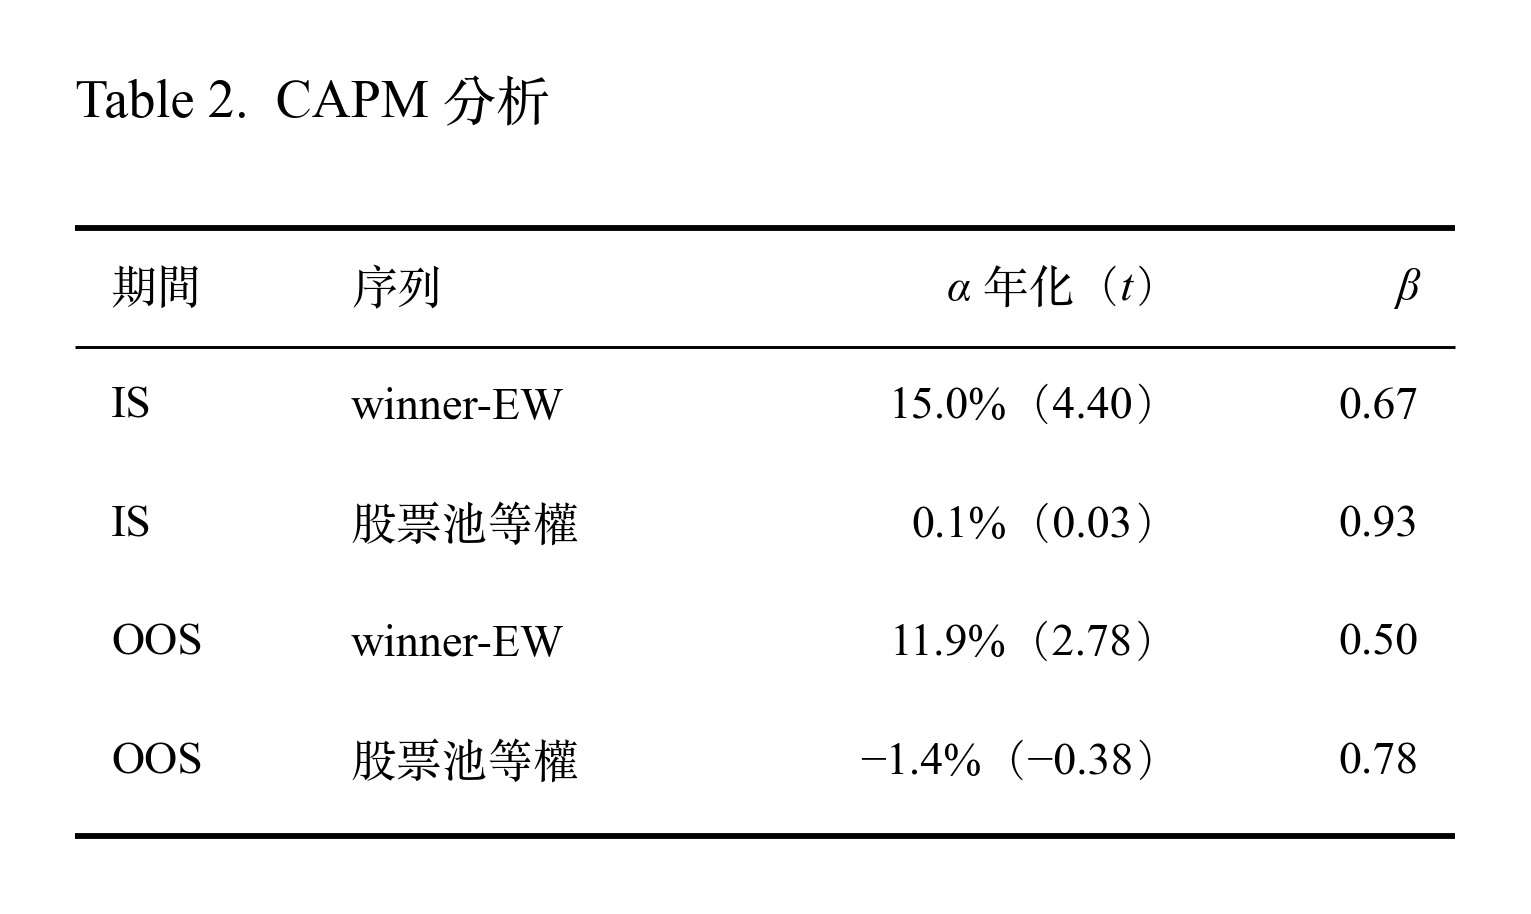
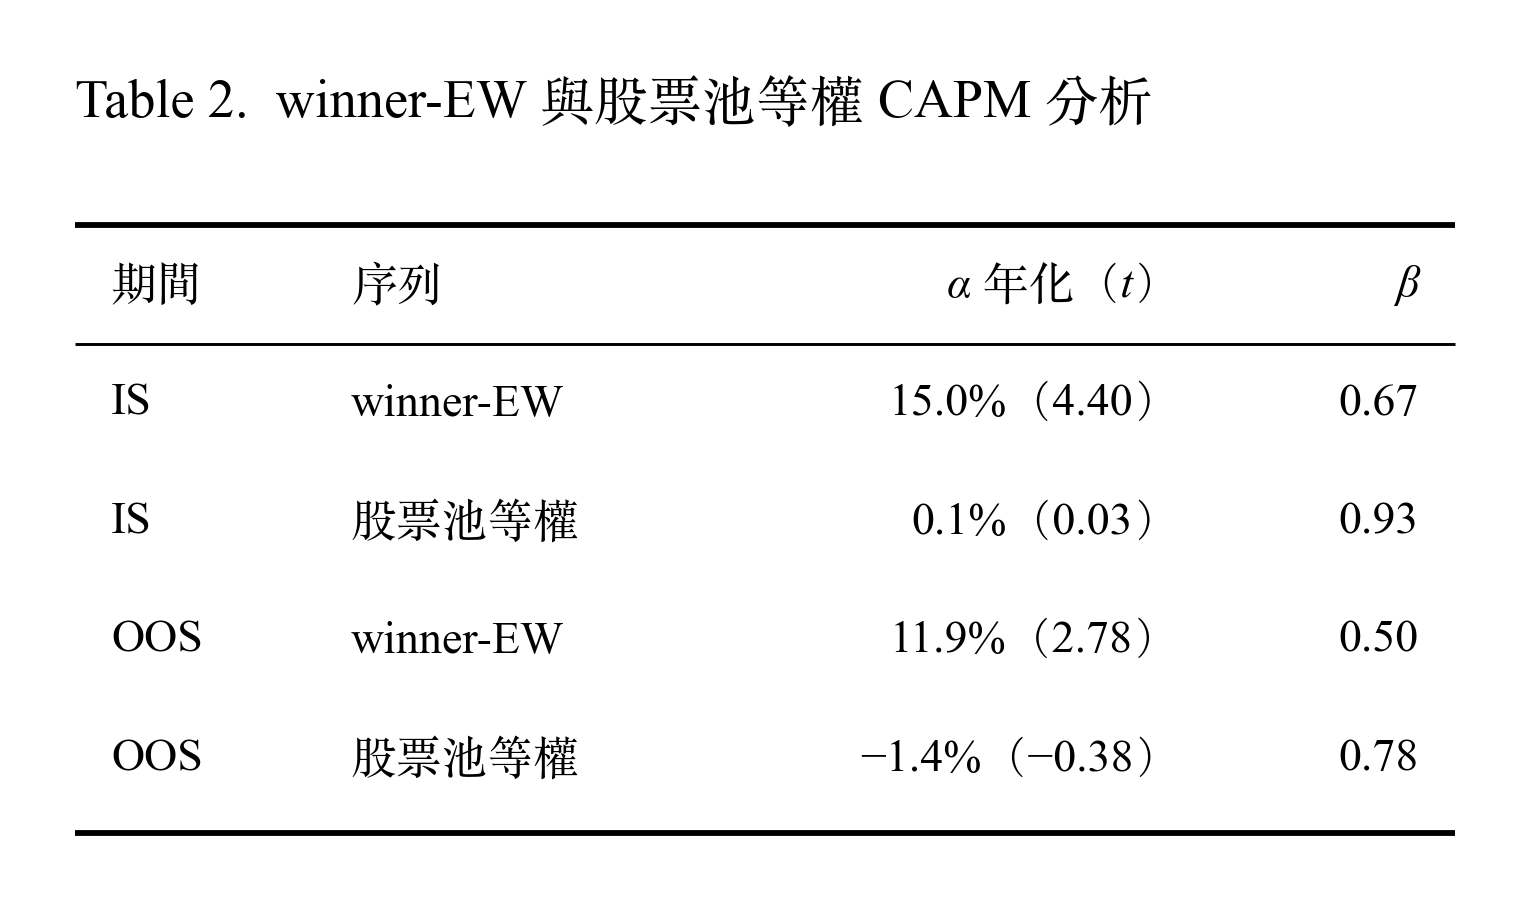
t

diff --git a/tw-5-factor-lab/03_Backtesting.md b/tw-5-factor-lab/03_Backtesting.md
@@ -53,7 +53,9 @@
 > TRTEJ：TEJ 編製的台股大盤報酬指數（含權息、不扣交易成本），作為大盤比較基準。
 >
 > CAGR ＝ 依每日淨值複利、以日曆年年化。
+>
 > Sharpe ＝ 日報酬平均 ÷ 日報酬標準差 × √252；無風險利率設為 0。
+>
 > 年化波動 ＝ 日報酬標準差 × √252。
 
 #### 解讀
@@ -74,7 +76,7 @@
 - 2018 到 2024 年中，策略的績效大致領先，資金累積速度高於股票池等權與 TRTEJ。
 - 2024 年中以後，策略績效大致持平。除了 v0-EW 持續上升到期末約 5.2 創新高。
 - 2025 年中以後，TRTEJ 則大幅上升，從約 2.4 上漲到期末約 5.4，並在 2026 年超過 v0-EW。
-- 策略相對大盤的優勢在最後兩年明顯縮小，歸因分析見 [5.1 滾動多因子回歸](#51-winner-ew-三年窗口滾動多因子回歸)。
+- 策略相對大盤的優勢在最後兩年明顯縮小，歸因分析見 [5.1 三年窗口滾動多因子回歸](#51-三年窗口滾動多因子回歸)。
 
 <p align="center">
   <img src="img/oos_drawdown.png" alt="Figure 2. OOS 回撤" width="1000">
@@ -113,7 +115,7 @@
 - 所有的統計值 t 值絕對值皆小於 2，不顯著有差異。
 - IS 中三段的差異都接近 0，股票池並不顯著落後大盤（−0.09%）；OOS 中每期平均則有大幅的落後（−1.50%），而落後合計主要來自加權方式（−1.88%）。
 - OOS 中，市值加權跟 TRTEJ 的範圍差異為 +0.38%，表示股票範圍（只選市值前 50%、排除金融股）的篩選條件，對於落後大盤的影響很小。沒有數據顯示市值加權股票池比大盤差。
-- 每檔股票等權持有，讓小型股的權重比依市值分配高，推論：OOS 期間大型股表現較好，大盤受到大型權值股推升。進一步分析請看 [4.3 winner-EW 多因子回歸](#43-winner-ew-多因子回歸) E1 小型股風險報酬。
+- 每檔股票等權持有，讓小型股的權重比依市值分配高，推論：OOS 期間大型股表現較好，大盤受到大型權值股推升。進一步分析請看 [4.3 多因子回歸](#43-多因子回歸) 中 E1 小型股的報酬貢獻。
 
 ---
 
@@ -125,23 +127,22 @@
   - β：大盤漲跌 1%，序列平均跟著漲跌 β%
 
 <p align="center">
-  <img src="img/table_capm.png" alt="Table 2. CAPM 分析" width="510">
+  <img src="img/table_capm.png" alt="Table 2. winner-EW 與股票池等權 CAPM 分析" width="510">
 </p>
 
-> 年化 α = 日 α × 252。
-> 範例：OOS 中 winner-EW 的 α = (9.1 bps × 252) − 0.5 × (8.7 bps × 252) ≈ 11.97%
+> 年化 α ＝ 日 α × 252。
+>
+> 範例：OOS 中 winner-EW 的 α = (9.1 bps × 252) − 0.5 × (8.7 bps × 252) ≈ 11.9%
 
 #### 解讀
-
-- 股票池等權在 IS、OOS 都接近 0。所以策略 α 來自選股，不是股票池本身。
-- 原始報酬持平，風險調整過後為正。OOS 當中 winner-EW 策略優勢（每期策略 − 每期大盤）+0.46% 不顯著；但是 CAPM α 年化 11.9%（t 2.78）。策略承擔一半的市場風險，照理說應只拿到大盤一半的報酬，實際卻拿到 22.9%。
-  - 風險調整：原先直接用（策略 − 大盤）等於假設 β = 1，假設策略承擔的市場風險跟大盤一樣多。
-  - 但實際回歸後 β = 0.5，在 OOS 強勢多頭中，承擔一半的風險卻取得相近的報酬。
-- α 從 IS 到 OOS 變小。可以看到 EW 策略的 α 從原本的約 15% 降到 8.7%–11.9%。從另外一個角度說明了選股優勢降低。
-- β 從 IS 到 OOS 變小。可以看到 EW 策略的 β 從原本的約 0.67–0.71 降到 0.50–0.55，股票池等權也從 0.93 降到 0.78，代表整體與大盤的連動變弱。
-- IS 和 OOS，股票池等權沒有 α，兩段期間 α 都接近 0，股票池本身只是低一點 β 的大盤。策略的 α 來自因子選股。
-- 股票池等權的 β 從 0.93 降到 0.78，在 OOS 期間，股票池等權和大盤連動明顯變弱。結合 [4.1] 再次說明等權組合和大盤的走勢差異變大。
-- 策略 α 下降，但 t 仍顯著。IS 15.0%（t 4.40）→ OOS 11.9%（t 2.78）。α 變小，但仍顯著為正。
+- 股票池等權在 IS、OOS 年化 α 都接近 0，沒有除了市場風險以外的顯著報酬。而策略每一期從同一個股票池中選股，表示策略的 α 來自有效選股，而不是股票池本身。α 中包含多少風格曝險，見下一節 [4.3 多因子回歸](#43-多因子回歸)。
+- 股票池等權的 β 從 0.93 降到 0.78，表示在 OOS 期間對大盤的敏感度明顯變弱。這與 [4.1 股票池落後大盤 TRTEJ 拆解](#41-股票池落後大盤-trtej-拆解) 說明股票池等權在 OOS 落後大盤的結果一致：
+  - 股票池等權每季落後 TRTEJ 約 −1.5% ≈ [−1.4% − (1 − 0.78) × 21.9%] ÷ 4，其中 21.9% 為 TRTEJ 年化算術平均報酬。表示股票池落後大盤，大部分可以用 β 偏低遇上大盤強勢多頭解釋。
+- 策略在 OOS 中與大盤原始報酬持平，經過風險調整 CAPM 回歸分析：
+  - α 年化 11.9%（t 2.78），有顯著不同於市場大盤的優勢。
+  - α 從 IS 到 OOS 變小，從約 15% 降到 11.9%。表示策略相對於大盤 α 優勢降低但仍顯著為正。
+  - β = 0.5，表示在 OOS 中策略承擔了一半的市場風險，卻取得相近的報酬。
+  - β 從 IS 到 OOS 變小，從約 0.67 降到 0.50。代表策略整體對大盤的敏感度下降。
 
 ```
 💡 winner-EW 作為專案分析對象
@@ -190,7 +191,7 @@ winner-EW 是依照 IS 單因子規則選出的勝者變體，再以簡單的等
 
 ## 5. 時變性
 
-### 5.1 winner-EW 三年窗口滾動多因子回歸
+### 5.1 三年窗口滾動多因子回歸
 
 **以三年窗口觀察 OOS 中 winner-EW 報酬風險回歸**
 
@@ -227,5 +228,5 @@ winner-EW 是依照 IS 單因子規則選出的勝者變體，再以簡單的等
 - B0 的斜率在 OOS 變陡，PB 出現微弱預測力。
 - C1 在兩個期間都幾乎持平，幾乎沒有預測力。
 - E0、E1 規模因子在 IS 沒有方向，OOS 轉為大型股較佳。
-- **2025 到 2026 年多個因子同時轉弱**（由圖觀察）：殘差 PB（B1）、低 beta（D0）、低波動度（D1）的累積 IC 轉為下降，規模往大型股方向加速。推論，未經驗證：這段期間由大型高市值股主導，與價值、低風險、小型股方向相反。這與策略在 2024 年中以後資金累積持平、股票池落後大盤的解讀一致。準確時間點引用 5.1。
+- **2025 到 2026 年多個因子同時轉弱**（由圖觀察）：殘差 PB（B1）、低 beta（D0）、低波動度（D1）的累積 IC 轉為下降，規模往大型股方向加速。推論，未經驗證：這段期間由大型高市值股主導，與價值、低風險、小型股方向相反。這與策略在 2024 年中以後資金累積持平、股票池落後大盤的解讀一致。準確時間點請見 [5.1 三年窗口滾動多因子回歸](#51-三年窗口滾動多因子回歸)。
 

diff --git a/tw-5-factor-lab/04_策略補充分析.md b/tw-5-factor-lab/04_策略補充分析.md
@@ -71,9 +71,9 @@
 > LGBM 沒有 IS 回測，以「—」表示
 
 #### 解讀
-- v0-EW 策略的 Sharpe 從 IS 到 OOS 降了 0.38。winner-EW 的 Sharpe 只降了 0.08，年化報酬幾乎不變。推論，勝者因子依然有解釋報酬的能力，進一步分析請看 [3.5 OOS 單因子檢定](#35-oos-單因子檢定) 與 [3.6 累積 Rank IC](#36-累積-rank-ic)。
+- v0-EW 策略的 Sharpe 從 IS 到 OOS 降了 0.38。winner-EW 的 Sharpe 只降了 0.08，年化報酬幾乎不變。推論，勝者因子依然有解釋報酬的能力，進一步分析請看 [6.3 OOS 單因子檢定](#63-oos-單因子檢定) 與 [5.2 累積 Rank IC](03_Backtesting.md#52-累積-rank-ic)。
 - 大盤的 Sharpe 上升。推論：策略相對大盤的優勢，主要是因為大盤變強而縮小，不是策略本身大幅變差。
-- winner-EW 在樣本內年化報酬本來沒有勝過 v0-EW（−0.70%），在樣本外反而領先約 2.70%。但是策略層檢定力無法判斷是否過擬合 (以 OOS 35 期來說，5% 顯著水準下要有 80% 機會測試出來，每一期差距至少要 2.5%) ，過擬合證據可參考單因子層級勝者延續 [3.5 OOS 單因子檢定](#35-oos-單因子檢定) 。
+- winner-EW 在樣本內年化報酬本來沒有勝過 v0-EW（−0.70%），在樣本外反而領先約 2.70%。但是策略層檢定力無法判斷是否過擬合 (以 OOS 35 期來說，5% 顯著水準下要有 80% 機會測試出來，每一期差距至少要 2.5%) ，過擬合證據可參考單因子層級勝者延續 [6.3 OOS 單因子檢定](#63-oos-單因子檢定) 。
 
 ---
 
@@ -94,7 +94,7 @@
 
 #### 解讀
 - 策略本身的報酬在 OOS 沒有明顯下降。兩個 EW 策略每期報酬從 IS 的 5.68%、5.58%，變為 OOS 的 5.23%、5.84%。
-- 選股優勢從每期約 3% 縮小到 1.35%–1.96%，後續統計說明 OOS 多數因子的 IC 仍為正但轉弱。進一步分析請看 [3.5 OOS 單因子檢定](#35-oos-單因子檢定) 與 [3.6 累積 Rank IC](#36-累積-rank-ic)。縮小主要來自 E1 風格報酬，參見 4.3。
+- 選股優勢從每期約 3% 縮小到 1.35%–1.96%，後續統計說明 OOS 多數因子的 IC 仍為正但轉弱。進一步分析請看 [6.3 OOS 單因子檢定](#63-oos-單因子檢定) 與 [5.2 累積 Rank IC](03_Backtesting.md#52-累積-rank-ic)。縮小主要來自 E1 風格報酬，參見 [4.3 多因子回歸](03_Backtesting.md#43-多因子回歸)。
 - OOS 大盤強勢。大盤的每期報酬在 OOS 約增加為兩倍（TRTEJ 從 2.56% 升到 5.38%）。而股票池等權只從 2.47% 升到 3.88%，OOS 每期落後大盤 1.50%。
 - 策略優勢的縮小，約一半來自選股優勢減弱、約一半來自股票池落後大盤。以 IS 到 OOS 的每期變化計算：
   - v0-EW 的策略優勢減少 3.28 百分點 = 選股優勢減少 1.86（約 57%）+ 股票池相對大盤減少 1.41（約 43%）
